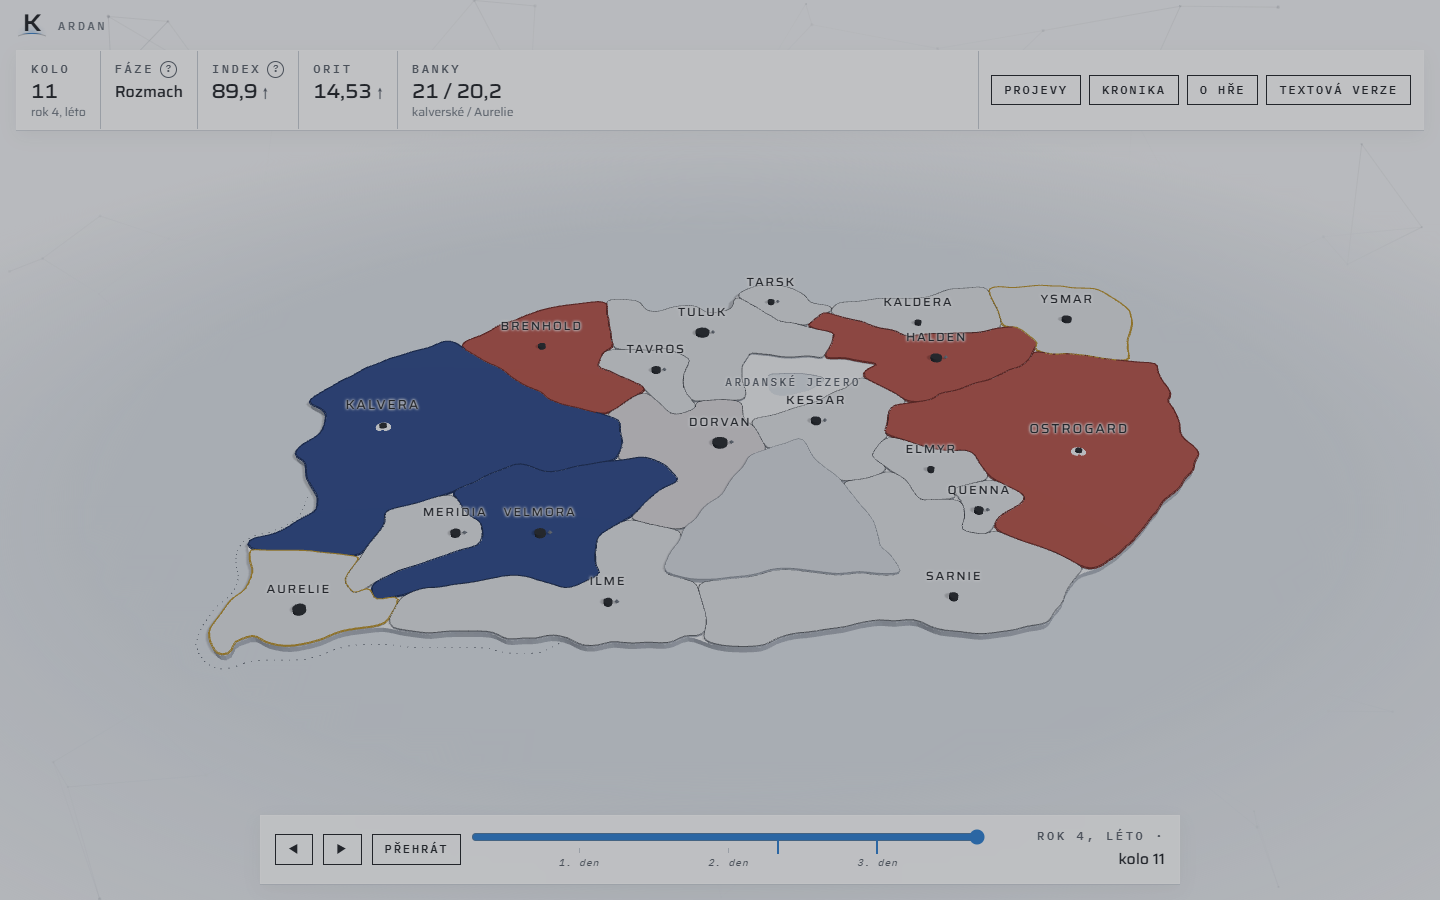
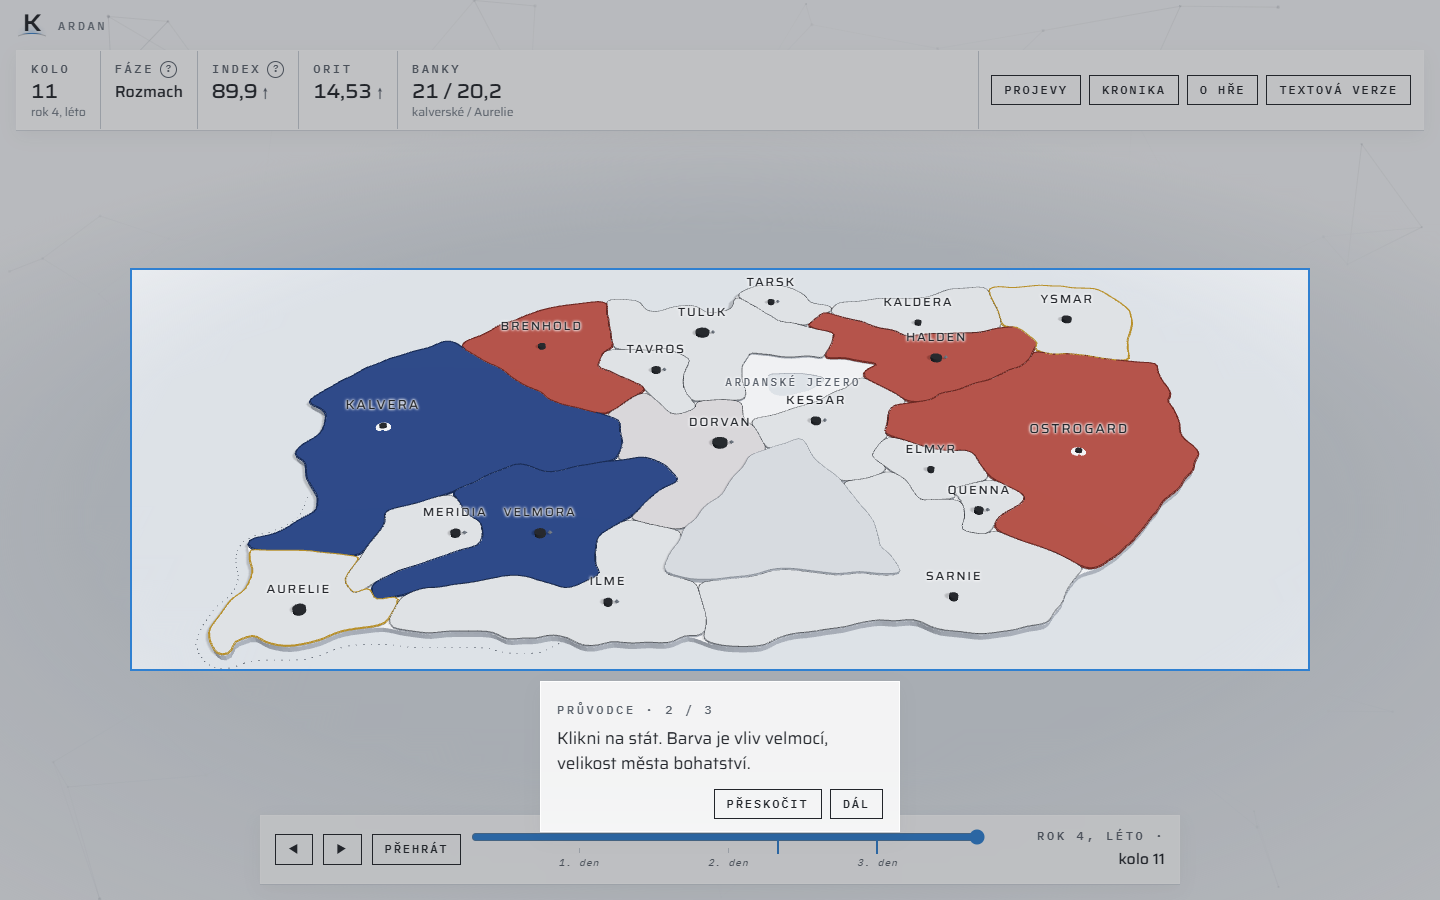
web: absolutní og:url a og:image, nové snímky průvodce, úklid starých screenshotů

diff --git a/web/index.html b/web/index.html
@@ -9,7 +9,8 @@
 <meta property="og:type" content="website">
 <meta property="og:title" content="Ardan · hra od Kája Industries">
 <meta property="og:description" content="Tři vlády řízené umělou inteligencí. Ty vidíš i to, co si myslí.">
-<meta property="og:image" content="og.png">
+<meta property="og:url" content="https://cvaliik.github.io/diplomacie-agentu/web/">
+<meta property="og:image" content="https://cvaliik.github.io/diplomacie-agentu/web/og.png">
 <meta property="og:image:width" content="1200">
 <meta property="og:image:height" content="630">
 <meta name="twitter:card" content="summary_large_image">

diff --git a/web/MAPA3D.md b/web/MAPA3D.md
@@ -92,6 +92,8 @@ projevů nebo pro bublinu kola; snímky se drží v paměti stránky. `web_data.
 - Sdílení: `<title>` se mění na „Ardan · kolo N“ (statický titulek pro náhledy je „Ardan · hra od Kája Industries“,
   protože roboti sociálních sítí JavaScript nespouštějí), meta description, Open Graph a `og.png` 1200 × 630
   (snímek `og-1200x630` z `tools/snimky_mapy.mjs`, zkopírovaný do `web/og.png`), favicon `brand/kaja-k.svg`.
+  `og:url` a `og:image` jsou absolutní adresy na `https://cvaliik.github.io/diplomacie-agentu/web/` (sítě relativní
+  cestu u náhledu nenačtou); je to jediná absolutní adresa na webu.
 - Kontrast: Steel `#6E7680` na skle nad mapou vycházel 3,5 až 4,5:1. Sklo je na mapě hustší (86 % bílé) a vedlejší
   text na něm má `#5A616B`: nejhorší případ (sklo nad tmavou modrou okupace) 4,8:1, nad světlou mapou 5,9 až 6,2:1.
 - `prefers-reduced-motion`: přechod barev mezi koly okamžitě, průvodce bez přechodů, posun na kartu bez animace.
@@ -101,7 +103,6 @@ projevů nebo pro bublinu kola; snímky se drží v paměti stránky. `web_data.
 - Obchody, pakty, invaze, války a migrace jako čáry nebo oblouky mezi městy.
 - Animovaný přechod kamery, tlačítka zoomu a resetu pohledu.
 - Měření fps na skutečném mobilu a případné zjednodušení stínů.
-- `og:image` je relativní cesta; některé sítě chtějí absolutní adresu (doplnit, až bude jistá adresa GitHub Pages).
 
 Screenshoty: `node tools/snimky_mapy.mjs http://localhost:8765/web/ [výběr]` (lokální server nad kořenem repa;
 výběr je regulární výraz na jméno snímku, např. `panel|projevy`). Textová verze a O hře: `tools/snimky_webu.mjs`.
